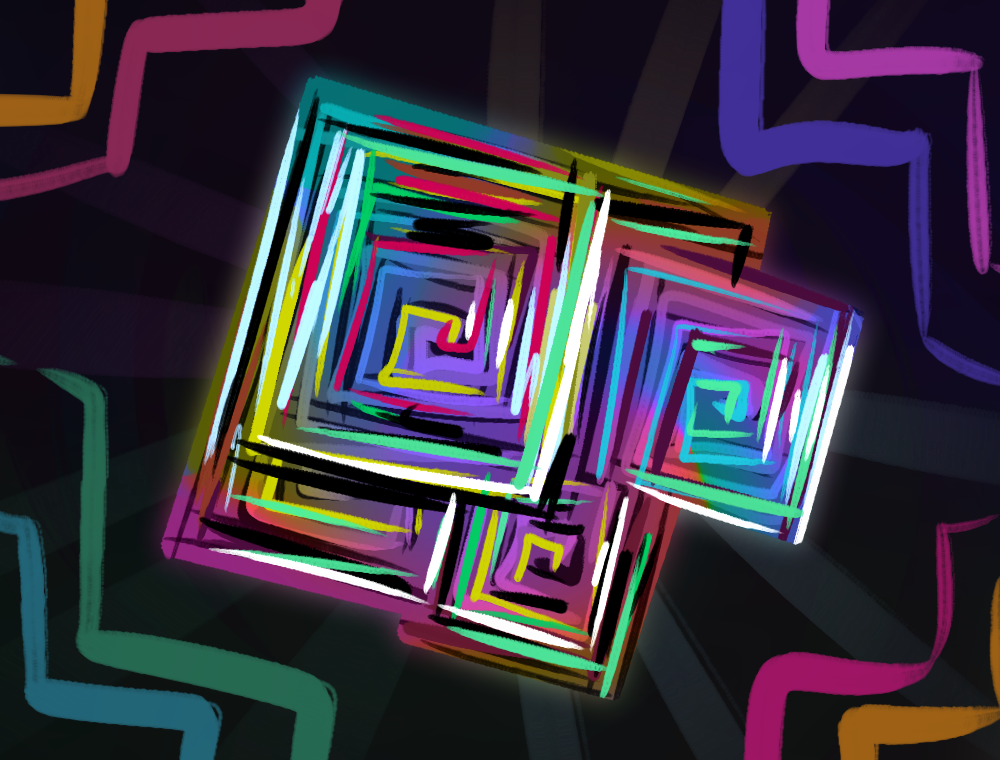
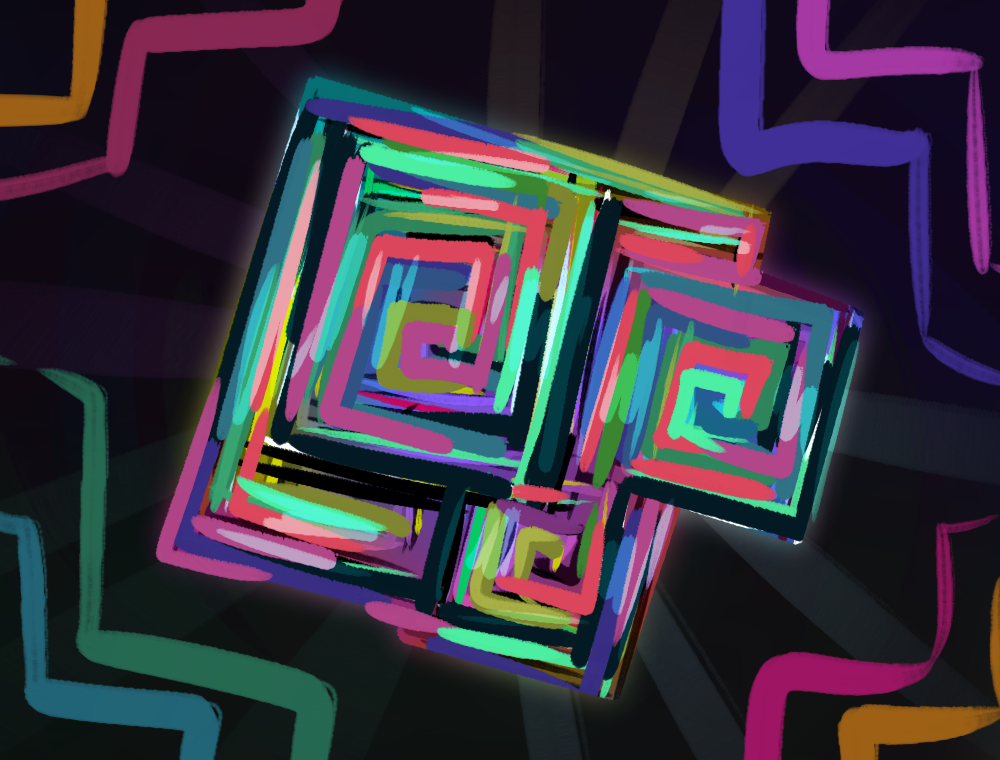
feat(cards): add beta art and artist attribution for Guardian multiplayer cards
- Assigned `Artist` Fulgur and marked beta art for `Shared Flux`, `Bastion`, and `Overblock`.
- Added new beta art assets (`shared_flux.png`, `bastion.png`, `overblock.png`) to `images/cards_beta/guardian`.

Changed region(s): [[0.155, 0.1211, 0.868, 0.9079]]

diff --git a/GuardianCode/Cards/Multiplayer/Bastion.cs b/GuardianCode/Cards/Multiplayer/Bastion.cs
@@ -1,4 +1,5 @@
 using BaseLib.Utils;
+using Downfall.DownfallCode.Artists;
 using Guardian.GuardianCode.Core;
 using Guardian.GuardianCode.CustomEnums;
 using Guardian.GuardianCode.Powers;
@@ -17,6 +18,9 @@ public class Bastion : GuardianCardModel
         WithTip(StaticHoverTip.Block);
         WithTip(GuardianTip.Brace);
     }
+    
+    protected override Artist Artist => Artist.Get<Fulgur>();
+    protected override bool IsBetaArt => true;
 
     public override CardMultiplayerConstraint MultiplayerConstraint => CardMultiplayerConstraint.MultiplayerOnly;
 

diff --git a/GuardianCode/Cards/Multiplayer/SharedFlux.cs b/GuardianCode/Cards/Multiplayer/SharedFlux.cs
@@ -20,9 +20,9 @@ public class SharedFlux : GuardianCardModel
     }
 
     public override CardMultiplayerConstraint MultiplayerConstraint => CardMultiplayerConstraint.MultiplayerOnly;
-
-    protected override Artist Artist => Artist.Get<AlexMdle>();
-
+    protected override Artist Artist => Artist.Get<Fulgur>();
+    protected override bool IsBetaArt => true;
+    
     protected override async Task OnPlayInternal(PlayerChoiceContext ctx, CardPlay cardPlay)
     {
         var target = cardPlay.Target?.Player;

diff --git a/GuardianCode/Cards/Multiplayer/Overblock.cs b/GuardianCode/Cards/Multiplayer/Overblock.cs
@@ -25,7 +25,8 @@ public class Overblock : GuardianCardModel
     }
 
     public override CardMultiplayerConstraint MultiplayerConstraint => CardMultiplayerConstraint.MultiplayerOnly;
-    protected override Artist Artist => Artist.Get<AlexMdle>();
+    protected override Artist Artist => Artist.Get<Fulgur>();
+    protected override bool IsBetaArt => true;
 
     protected override async Task OnPlayInternal(PlayerChoiceContext ctx, CardPlay cardPlay)
     {
